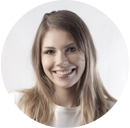
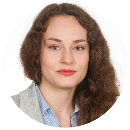
zdjęcia :>

diff --git a/index.html b/index.html
@@ -169,7 +169,7 @@
         </div>
         <div class="team-item">
             <div class="team-img">
-                <img src="img/team3.png" alt="Gerard Szulc"/>
+                <img src="img/gerard.png" alt="Gerard Szulc"/>
             </div>
             <h3 class="title">Gerard Szulc</h3>
             <table>
@@ -201,7 +201,7 @@
         </div>
         <div class="team-item">
             <div class="team-img">
-                <img src="img/team2.png" alt="Michał Maniara"/>
+                <img src="img/team3.png" alt="Michał Maniara"/>
             </div>
             <h3 class="title">Michał Maniara</h3>
             <table>
